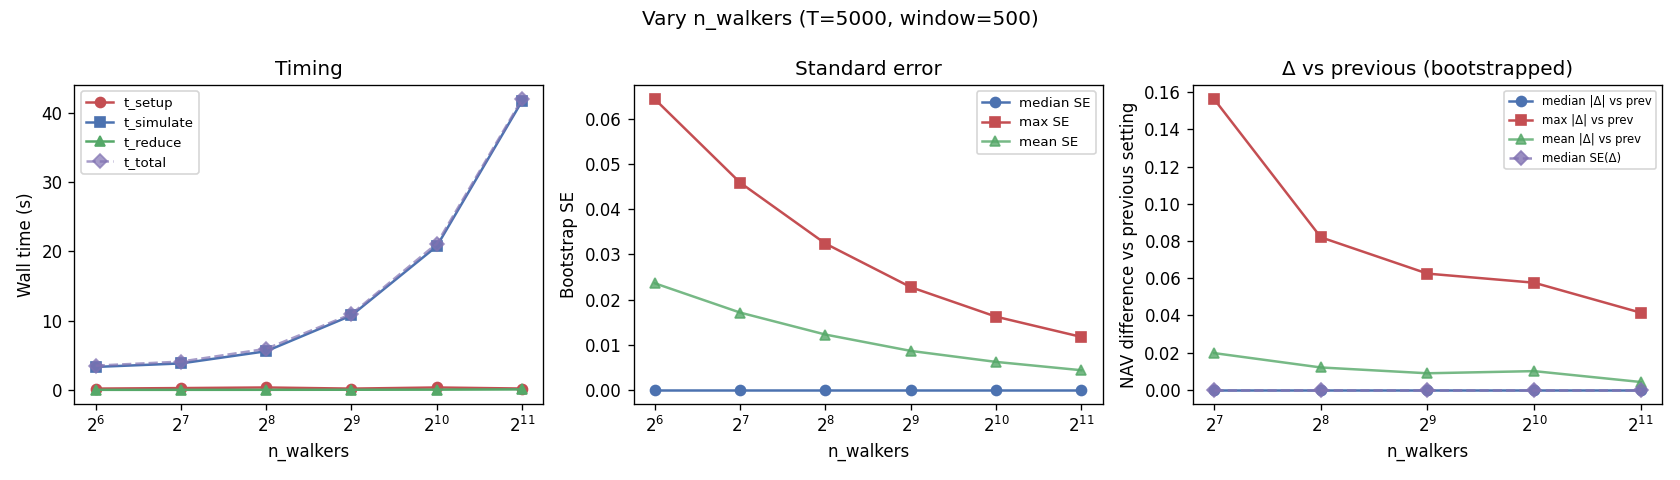
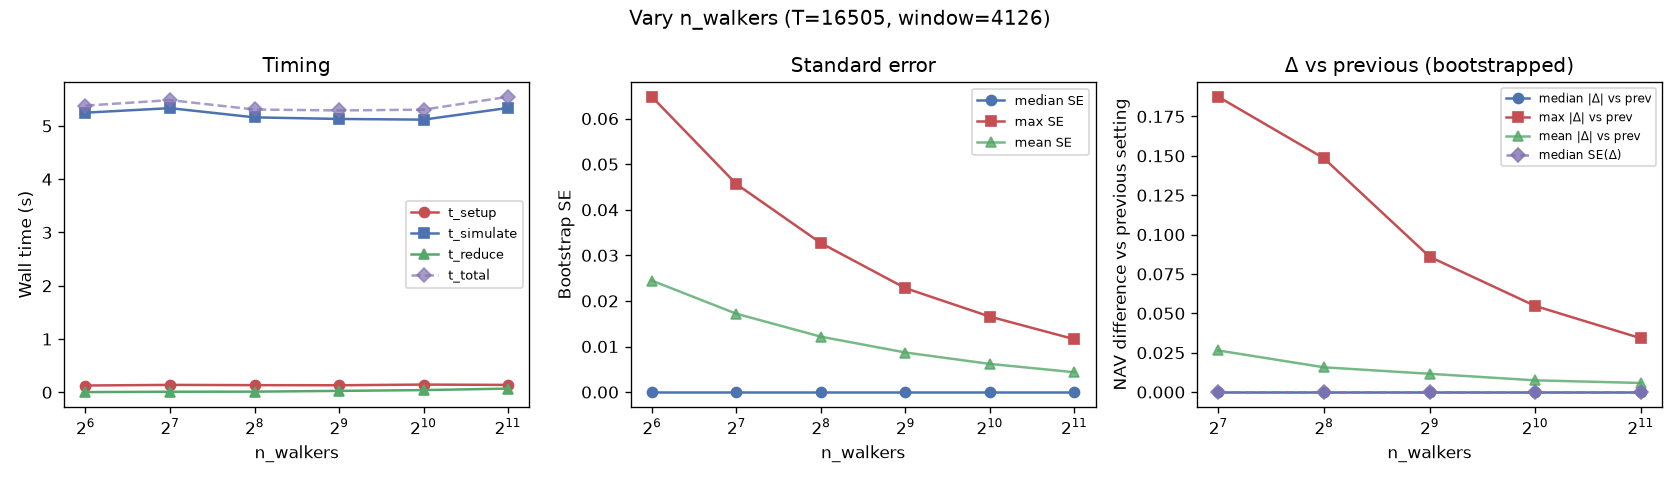
Rerun cubewalkers investigation

diff --git a/dev/cw_timing_bootstrap.py b/dev/cw_timing_bootstrap.py
@@ -69,17 +69,17 @@ PLOT_DIR.mkdir(parents=True, exist_ok=True)
 # Practical baseline / sweep base (paper-scale is optional — see RUN_PAPER_BASELINE).
 # Full traj is (T_window, N, W) bools; paper defaults can be ~1–2 GB on device.
 N_WALKERS = 2048
-N_TIME_STEPS = 10000
-T_WINDOW = 2000
+N_TIME_STEPS = 16505
+T_WINDOW = 4126
 
 # Sweep base (held fixed while varying one axis).
-SWEEP_WALKERS = 512
-SWEEP_T = 5000
-SWEEP_WINDOW = 500
+SWEEP_WALKERS = 2048
+SWEEP_T = 16505
+SWEEP_WINDOW = 4126
 
 WALKERS_GRID = [64, 128, 256, 512, 1024, 2048]
-T_GRID = [2000, 4000, 6000, 8000, 10000]
-WINDOW_GRID = [50, 100, 250, 500, 1000, 2000]
+T_GRID = [2000, 4000, 6000, 8000, 10000, 12000, 14000, 16505]
+WINDOW_GRID = [50, 100, 250, 500, 1000, 2000, 4126]
 
 THREADS_PER_BLOCK: tuple[int, int] = (16, 16)
 SEED = 0
